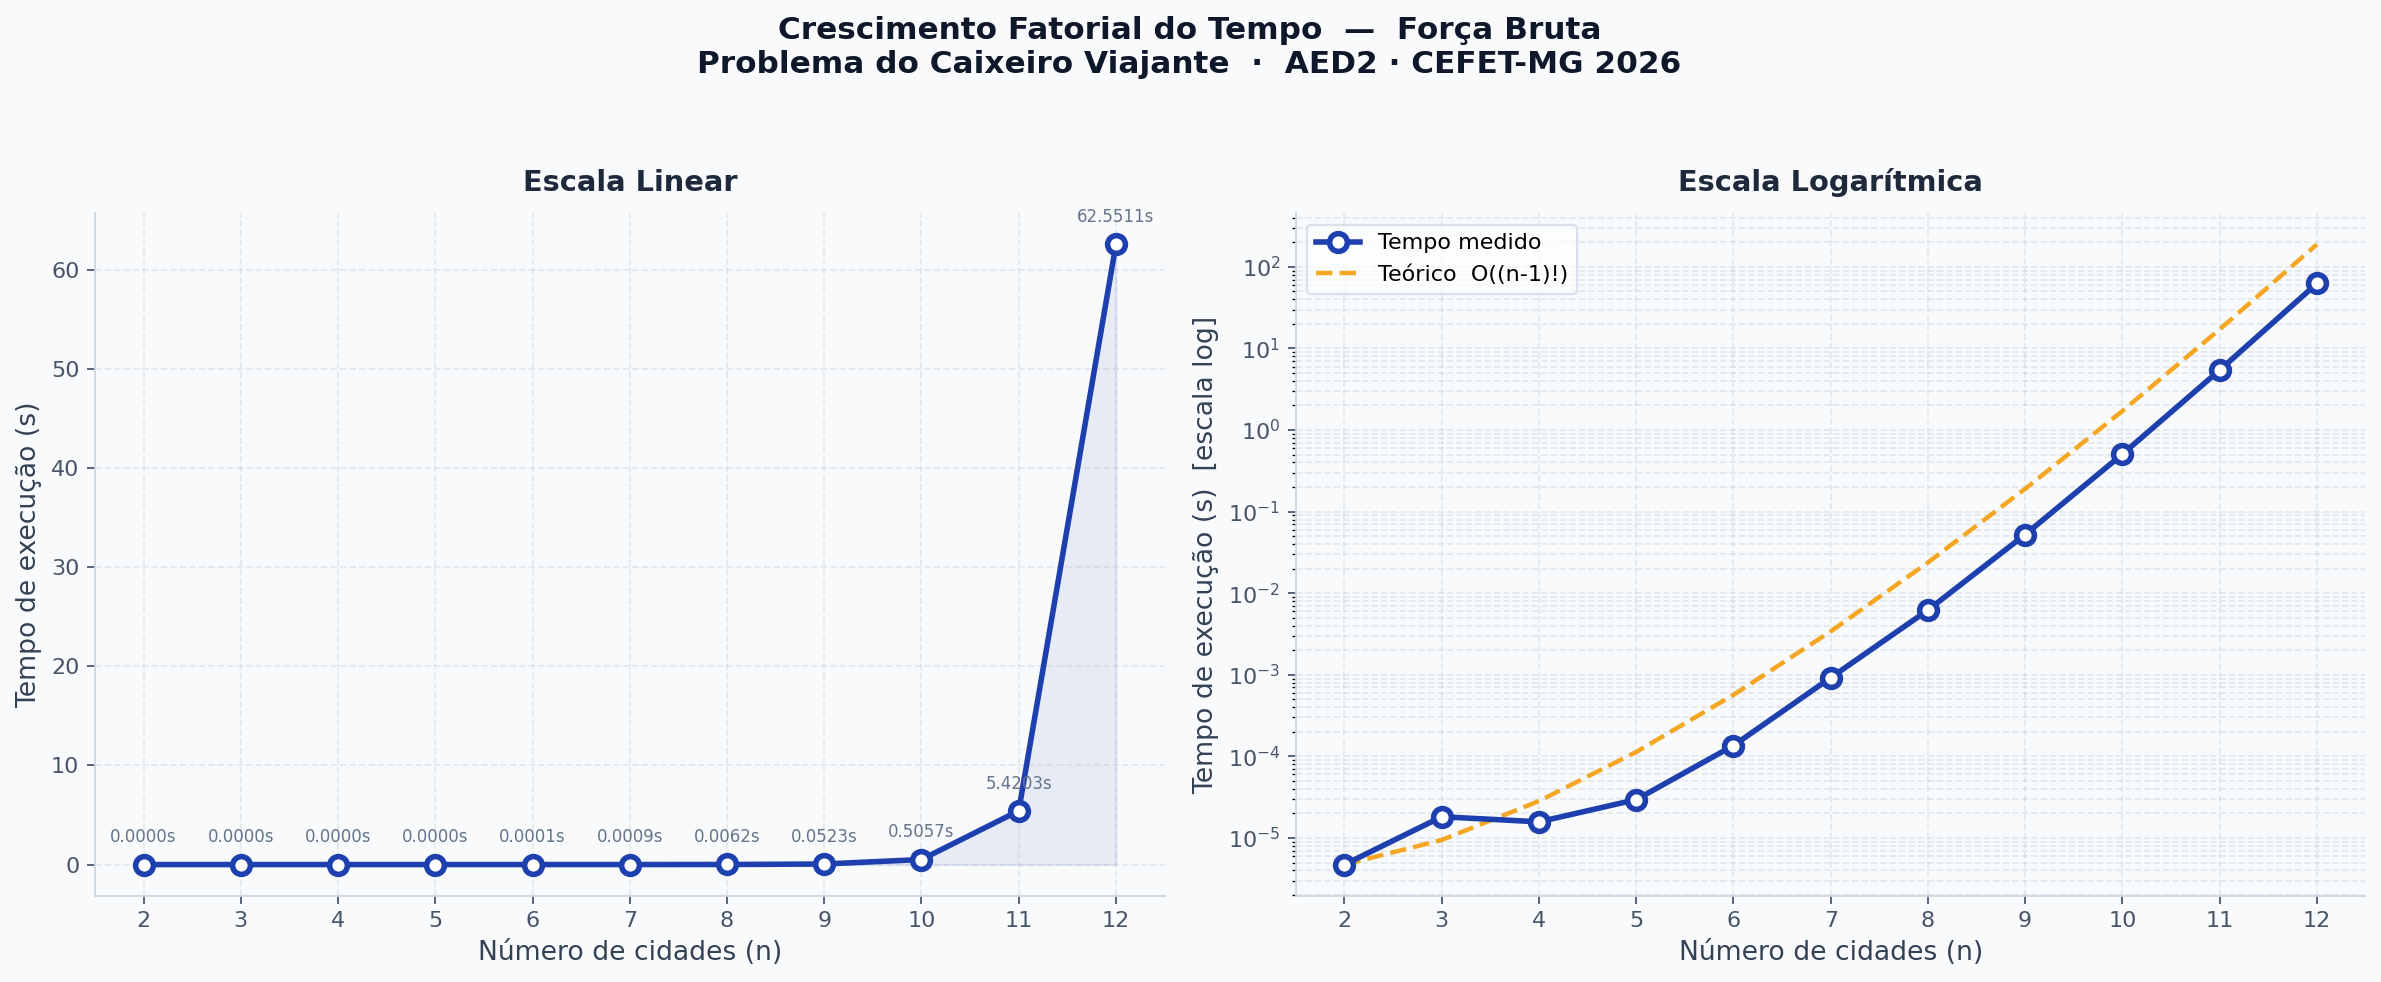
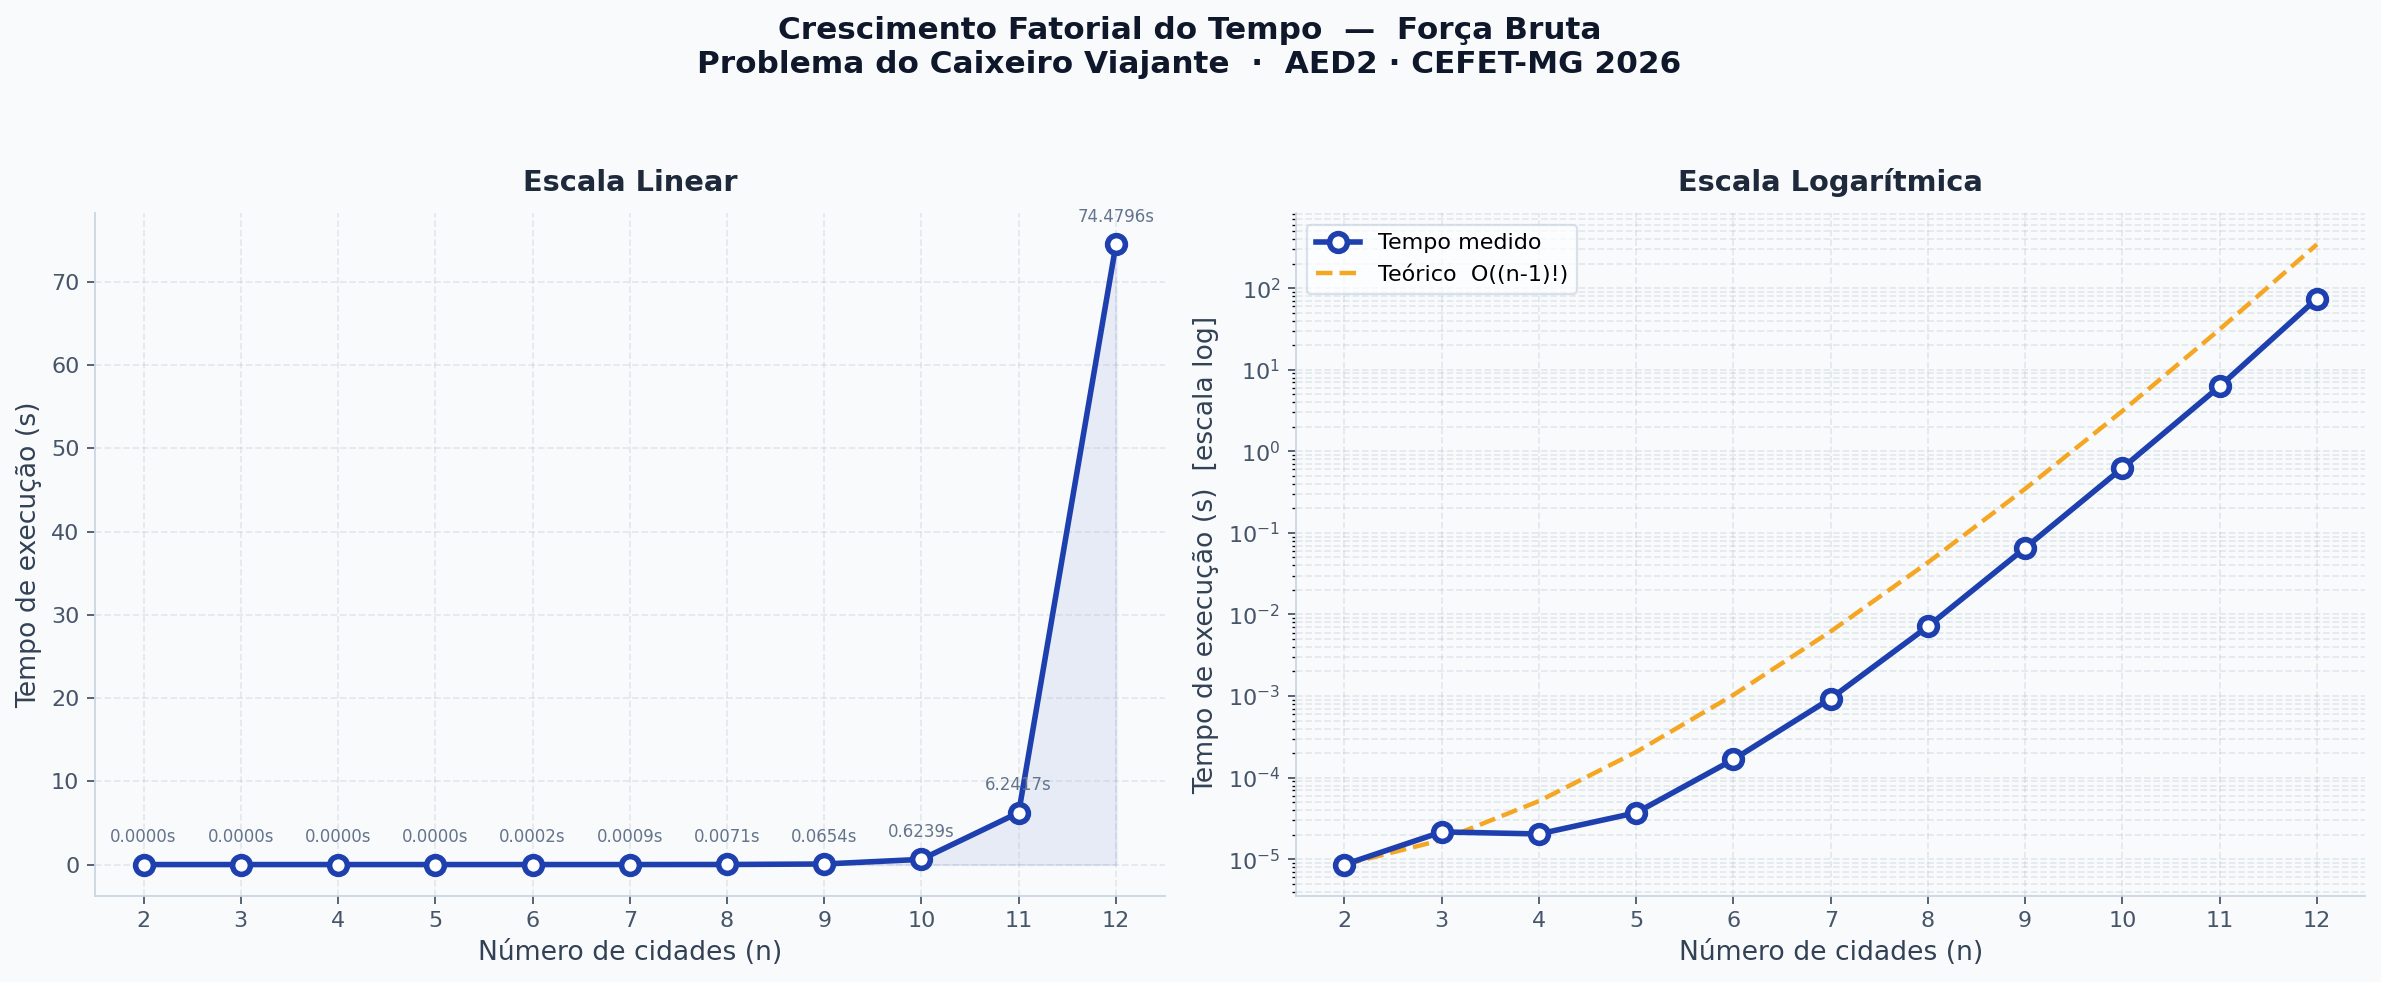
asdasd

diff --git a/relatorio_tsp_caio_gabriel.tex b/relatorio_tsp_caio_gabriel.tex
@@ -1,0 +1,161 @@
+\documentclass[12pt,a4paper]{article}
+\usepackage[utf8]{inputenc}
+\usepackage[T1]{fontenc}
+\usepackage[portuguese]{babel}
+\usepackage{amsmath, amsfonts, amssymb}
+\usepackage{graphicx}
+\usepackage{geometry}
+\geometry{a4paper, top=3cm, bottom=3cm, left=2.5cm, right=2.5cm}
+\usepackage{booktabs}
+\usepackage{float}
+\usepackage{hyperref}
+\usepackage{caption}
+\usepackage{xcolor}
+
+\hypersetup{
+    colorlinks=true,
+    linkcolor=blue,
+    filecolor=magenta,      
+    urlcolor=cyan,
+    pdftitle={Relatório Caixeiro Viajante},
+}
+
+\title{
+    \vspace{-2cm}
+    \begin{center}
+        \Large \textbf{Centro Federal de Educação Tecnológica de Minas Gerais -- CEFET-MG}\\
+        \large Departamento de Computação\\
+        \vspace{1cm}
+        \textbf{Trabalho Prático 03: Algoritmos para o Problema do Caixeiro Viajante}\\
+        \normalsize Disciplina: Algoritmos e Estruturas de Dados II\\
+        \normalsize Professor: Thiago de Souza Rodrigues
+    \end{center}
+}
+
+\author{
+    \textbf{Caio César Nascimento Silva} \\
+    \textbf{Gabriel Macedo dos Santos Magalhães}
+}
+\date{23 de junho de 2026}
+
+\begin{document}
+
+\maketitle
+\thispagestyle{empty}
+
+\begin{abstract}
+    Este relatório documenta a implementação e a análise comparativa de três abordagens computacionais para a resolução do Problema do Caixeiro Viajante (TSP): Força Bruta (solução exata), Heurística do Vizinho Mais Próximo e Algoritmo Aproximado baseado em Árvore Geradora Mínima. Analisou-se o comportamento do crescimento exponencial no método exato, bem como o balanço entre custo da rota e eficiência assintótica nas abordagens heurísticas e aproximadas sobre instâncias de até 1.032 vértices.
+\end{abstract}
+
+\vspace{0.5cm}
+
+\tableofcontents
+\newpage
+
+\section{Introdução e Fundamentação Teórica}
+
+O Problema do Caixeiro Viajante (\textit{Traveling Salesperson Problem} - TSP) é um dos problemas mais clássicos e estudados na Ciência da Computação e na Pesquisa Operacional. O objetivo é determinar o menor ciclo hamiltoniano em um grafo, ou seja, o menor caminho que visita todos os vértices exatamente uma vez e retorna ao vértice de origem.
+
+Do ponto de vista da complexidade computacional, o problema de decisão associado ao TSP é classicamente conhecido como pertencente à classe NP-Completo. Em termos práticos, isso implica que não se conhece nenhum algoritmo capaz de resolvê-lo de forma ótima em tempo polinomial $O(n^k)$.
+
+O objetivo deste trabalho prático é investigar a fronteira da tratabilidade computacional e avaliar metodologias de mitigação. Para tal, implementamos três estratégias analíticas:
+\begin{enumerate}
+    \item \textbf{Solução Exata (Força Bruta)}: Avalia todas as permutações possíveis. Útil apenas para instâncias minúsculas, mas indispensável para compreender a explosão combinatória.
+    \item \textbf{Heurística Gulosa (Vizinho Mais Próximo)}: Uma heurística construtiva de tempo polinomial que toma decisões localmente ótimas na esperança de encontrar um bom resultado global.
+    \item \textbf{Algoritmo Aproximado (Árvore Geradora Mínima - MST)}: Fornece um limite superior de erro garantido matematicamente (neste caso, a garantia de que o custo encontrado não excederá $2 \times$ o custo ótimo para grafos que respeitam a desigualdade triangular).
+\end{enumerate}
+
+\section{Parte 1: Algoritmo Exato (Força Bruta)}
+
+O método de força bruta garante encontrar a rota de custo estritamente ótimo, inspecionando o espaço de busca em sua totalidade.
+
+\subsection{Processo de Raciocínio Analítico}
+Considerando um grafo completo com $n$ vértices, existem matematicamente $n!$ permutações para a ordem de visitação. No entanto, como o caminho deve formar um ciclo, podemos fixar um vértice de origem constante (eliminando as variações cíclicas idênticas). Assim, o número total de caminhos únicos a serem checados é reduzido para $(n-1)!$. Se as distâncias são simétricas, o espaço pode cair para $\frac{(n-1)!}{2}$, mas o comportamento assintótico permanece fatorial $O(n!)$.
+
+\subsection{Resultados e Análise da Explosão Exponencial}
+
+Executamos a rotina exata para instâncias randômicas de tamanhos de $n=2$ até $n=12$. Os resultados computacionais encontram-se na Tabela \ref{tab:forca-bruta}.
+
+\begin{table}[H]
+    \centering
+    \caption{Tempo de execução para Força Bruta ($n=2$ a $n=12$)}
+    \label{tab:forca-bruta}
+    \begin{tabular}{@{}rrrr@{}}
+    \toprule
+    \textbf{Vértices ($n$)} & \textbf{Permutações $(n-1)!$} & \textbf{Tempo (s)} & \textbf{Custo da Rota} \\ \midrule
+    2  & 1          & 0.000009  & 320   \\
+    3  & 2          & 0.000022  & 572   \\
+    4  & 6          & 0.000020  & 1,347 \\
+    5  & 24         & 0.000037  & 2,544 \\
+    6  & 120        & 0.000167  & 1,031 \\
+    7  & 720        & 0.000932  & 1,431 \\
+    8  & 5,040      & 0.007131  & 1,863 \\
+    9  & 40,320     & 0.065377  & 1,787 \\
+    10 & 362,880    & 0.623941  & 1,841 \\
+    11 & 3,628,800  & 6.241694  & 2,101 \\
+    12 & 39,916,800 & 74.479555 & 1,641 \\ \bottomrule
+    \end{tabular}
+\end{table}
+
+\textbf{Conclusão Analítica:} Conforme evidencia a Tabela \ref{tab:forca-bruta}, a transição de $n=11$ para $n=12$ aumenta o tempo de execução por um fator de 11 (de $\sim 6$ segundos para $\sim 74$ segundos), refletindo perfeitamente a propriedade $(n-1) \times (n-2)!$ da função fatorial.
+Se tentássemos resolver $n=15$, o tempo estimado saltaria para aproximadamente $74 \times 13 \times 14 \times 15$, resultando em dias de processamento. Este experimento reforça de maneira empírica o motivo pelo qual abordagens exatas em tempo polinomial são inatingíveis para problemas NP-Completos e por que precisamos recorrer a métodos aproximados e heurísticos.
+
+\begin{figure}[H]
+    \centering
+    % Observação para o aluno: Certifique-se de que o arquivo 'grafico_forca_bruta.png' gerado pelo código em Python esteja na mesma pasta do arquivo .tex no Overleaf.
+    \includegraphics[width=0.8\textwidth]{grafico_forca_bruta.png}
+    \caption{Crescimento exponencial do tempo de execução no Força Bruta}
+    \label{fig:grafico-fb}
+\end{figure}
+
+\section{Partes 2 e 3: Heurística e Algoritmo Aproximado}
+
+Para resolver instâncias grandes, as abordagens polinomiais são fundamentais. Implementamos duas metodologias contrastantes.
+
+\subsection{Heurística do Vizinho Mais Próximo (NN)}
+\textbf{Método:} A partir de um vértice inicial, o algoritmo seleciona sempre a próxima cidade não visitada que possua a menor distância (escolha gulosa local).
+\\
+\textbf{Por que funciona (e quando falha):} É rápido ($O(n^2)$) e intuitivo. Todavia, como não tem visão global, o Caixeiro pode ser forçado a tomar uma aresta extremamente longa nos passos finais para fechar o ciclo. Não oferece garantias matemáticas sobre o limite do erro.
+
+\subsection{Algoritmo Aproximado baseado em MST (2-Aprox)}
+\textbf{Método:} 
+1. Construímos uma Árvore Geradora Mínima (MST) do grafo (usando o algoritmo de Prim, com complexidade $O(n^2)$ para matrizes densas).
+2. Realizamos um percurso de Pré-Ordem (DFS) pela MST, o que garante a visita a todos os vértices.
+3. Transformamos a rota da DFS num ciclo, "pulando" vértices já visitados (\textit{shortcutting}).
+\\
+\textbf{Garantia Teórica:} Como a MST é menor ou igual ao ciclo ótimo (já que o ciclo ótimo menos uma aresta é uma árvore geradora), e o percurso pela árvore ao dobrar as arestas equivale a no máximo $2 \times$ a MST, garantimos que o custo final nunca excederá o dobro do ótimo ($C \leq 2 \times C_{opt}$), contanto que o grafo respeite a \textbf{Desigualdade Triangular}.
+
+\subsection{Resultados e Discussão em Larga Escala}
+
+Os testes foram executados sobre três matrizes de adjacência disponibilizadas: \texttt{si535.tsp}, \texttt{pa561.tsp} e \texttt{si1032.tsp}. Os resultados obtidos em nosso sistema estão descritos na Tabela \ref{tab:heuristica}.
+
+\begin{table}[H]
+    \centering
+    \caption{Comparativo Heurística (NN) vs. Aproximado (MST) para grandes instâncias}
+    \label{tab:heuristica}
+    \begin{tabular}{@{}lrrrr@{}}
+    \toprule
+    \textbf{Instância} & \textbf{Tamanho ($n$)} & \textbf{Custo NN} & \textbf{Custo MST} & \textbf{Razão (NN / MST)} \\ \midrule
+    si535  & 535  & 50.144 & 52.034 & 0,9637 \\
+    pa561  & 561  & 3.422  & 3.868  & 0,8847 \\
+    si1032 & 1032 & 94.571 & 98.249 & 0,9626 \\ \bottomrule
+    \end{tabular}
+\end{table}
+
+\textbf{Análise Crítica dos Resultados:}
+Ao analisar a Tabela \ref{tab:heuristica}, percebemos um fenômeno interessante: a razão (NN / MST) é menor que 1. Isso indica que a \textbf{Heurística do Vizinho Mais Próximo gerou rotas de custo inferior (melhores) do que a solução com garantia do MST} em todas as instâncias avaliadas.
+
+Como isso é possível se o MST é um algoritmo de aproximação validado?
+1. \textbf{Média vs Pior Caso:} A garantia da MST de fator de aproximação igual a $2$ significa que o pior resultado não será pior que o dobro do ótimo. Trata-se de uma garantia matemática de \textbf{pior caso}.
+2. \textbf{Comportamento Prático:} Em instâncias que imitam geografias reais e exibem clusters densos e estruturados espacialmente, a busca gulosa simples do Vizinho Mais Próximo costuma fluir bem na média, embora possa falhar catastroficamente em grafos perversamente arquitetados (onde seu erro é na ordem de $\log n$).
+3. O algoritmo da MST realiza saltos longos durante a fase de \textit{shortcutting} na pré-ordem da árvore. Sem algoritmos adicionais de polimento local (como o método de Christofides, ou otimizações locais 2-opt/3-opt em pós-processamento), o atalho introduz custos desnecessários que o Vizinho Mais Próximo, na sua miopia, acaba contornando nessas instâncias específicas.
+
+\section{Conclusão}
+
+O presente trabalho prático consolidou uma visão profunda e escalonada do Problema do Caixeiro Viajante. Ficou demonstrado de forma empírica que tentar resolver NP-Problemas via força bruta resulta num colapso temporal devido à complexidade $O(n!)$, impossibilitando o uso para $n > 15$.
+
+Através da modelagem de metodologias sub-ótimas mas tratáveis, confirmamos que é possível encontrar respostas razoáveis para ordens de grandeza de até $n=1.032$ em tempo imperceptível. A contraposição entre o Vizinho Mais Próximo (um modelo prático, sem garantia no pior caso) e o baseado em MST (com garantia de limite superior), revelou o \textit{trade-off} contínuo na ciência da computação: heurísticas gulosas podem encontrar soluções melhores no caso médio, enquanto algoritmos formais de aproximação oferecem segurança matemática e resiliência contra o pior caso, evitando anomalias graves no sistema.
+
+Para aplicações no mundo real que exijam mais precisão a partir dessas instâncias geradas, o conhecimento derivado aponta para abordagens híbridas (meta-heurísticas), nas quais se inicia a construção com um dos métodos acima e aplica-se refinamento local sucessivo.
+
+\end{document}